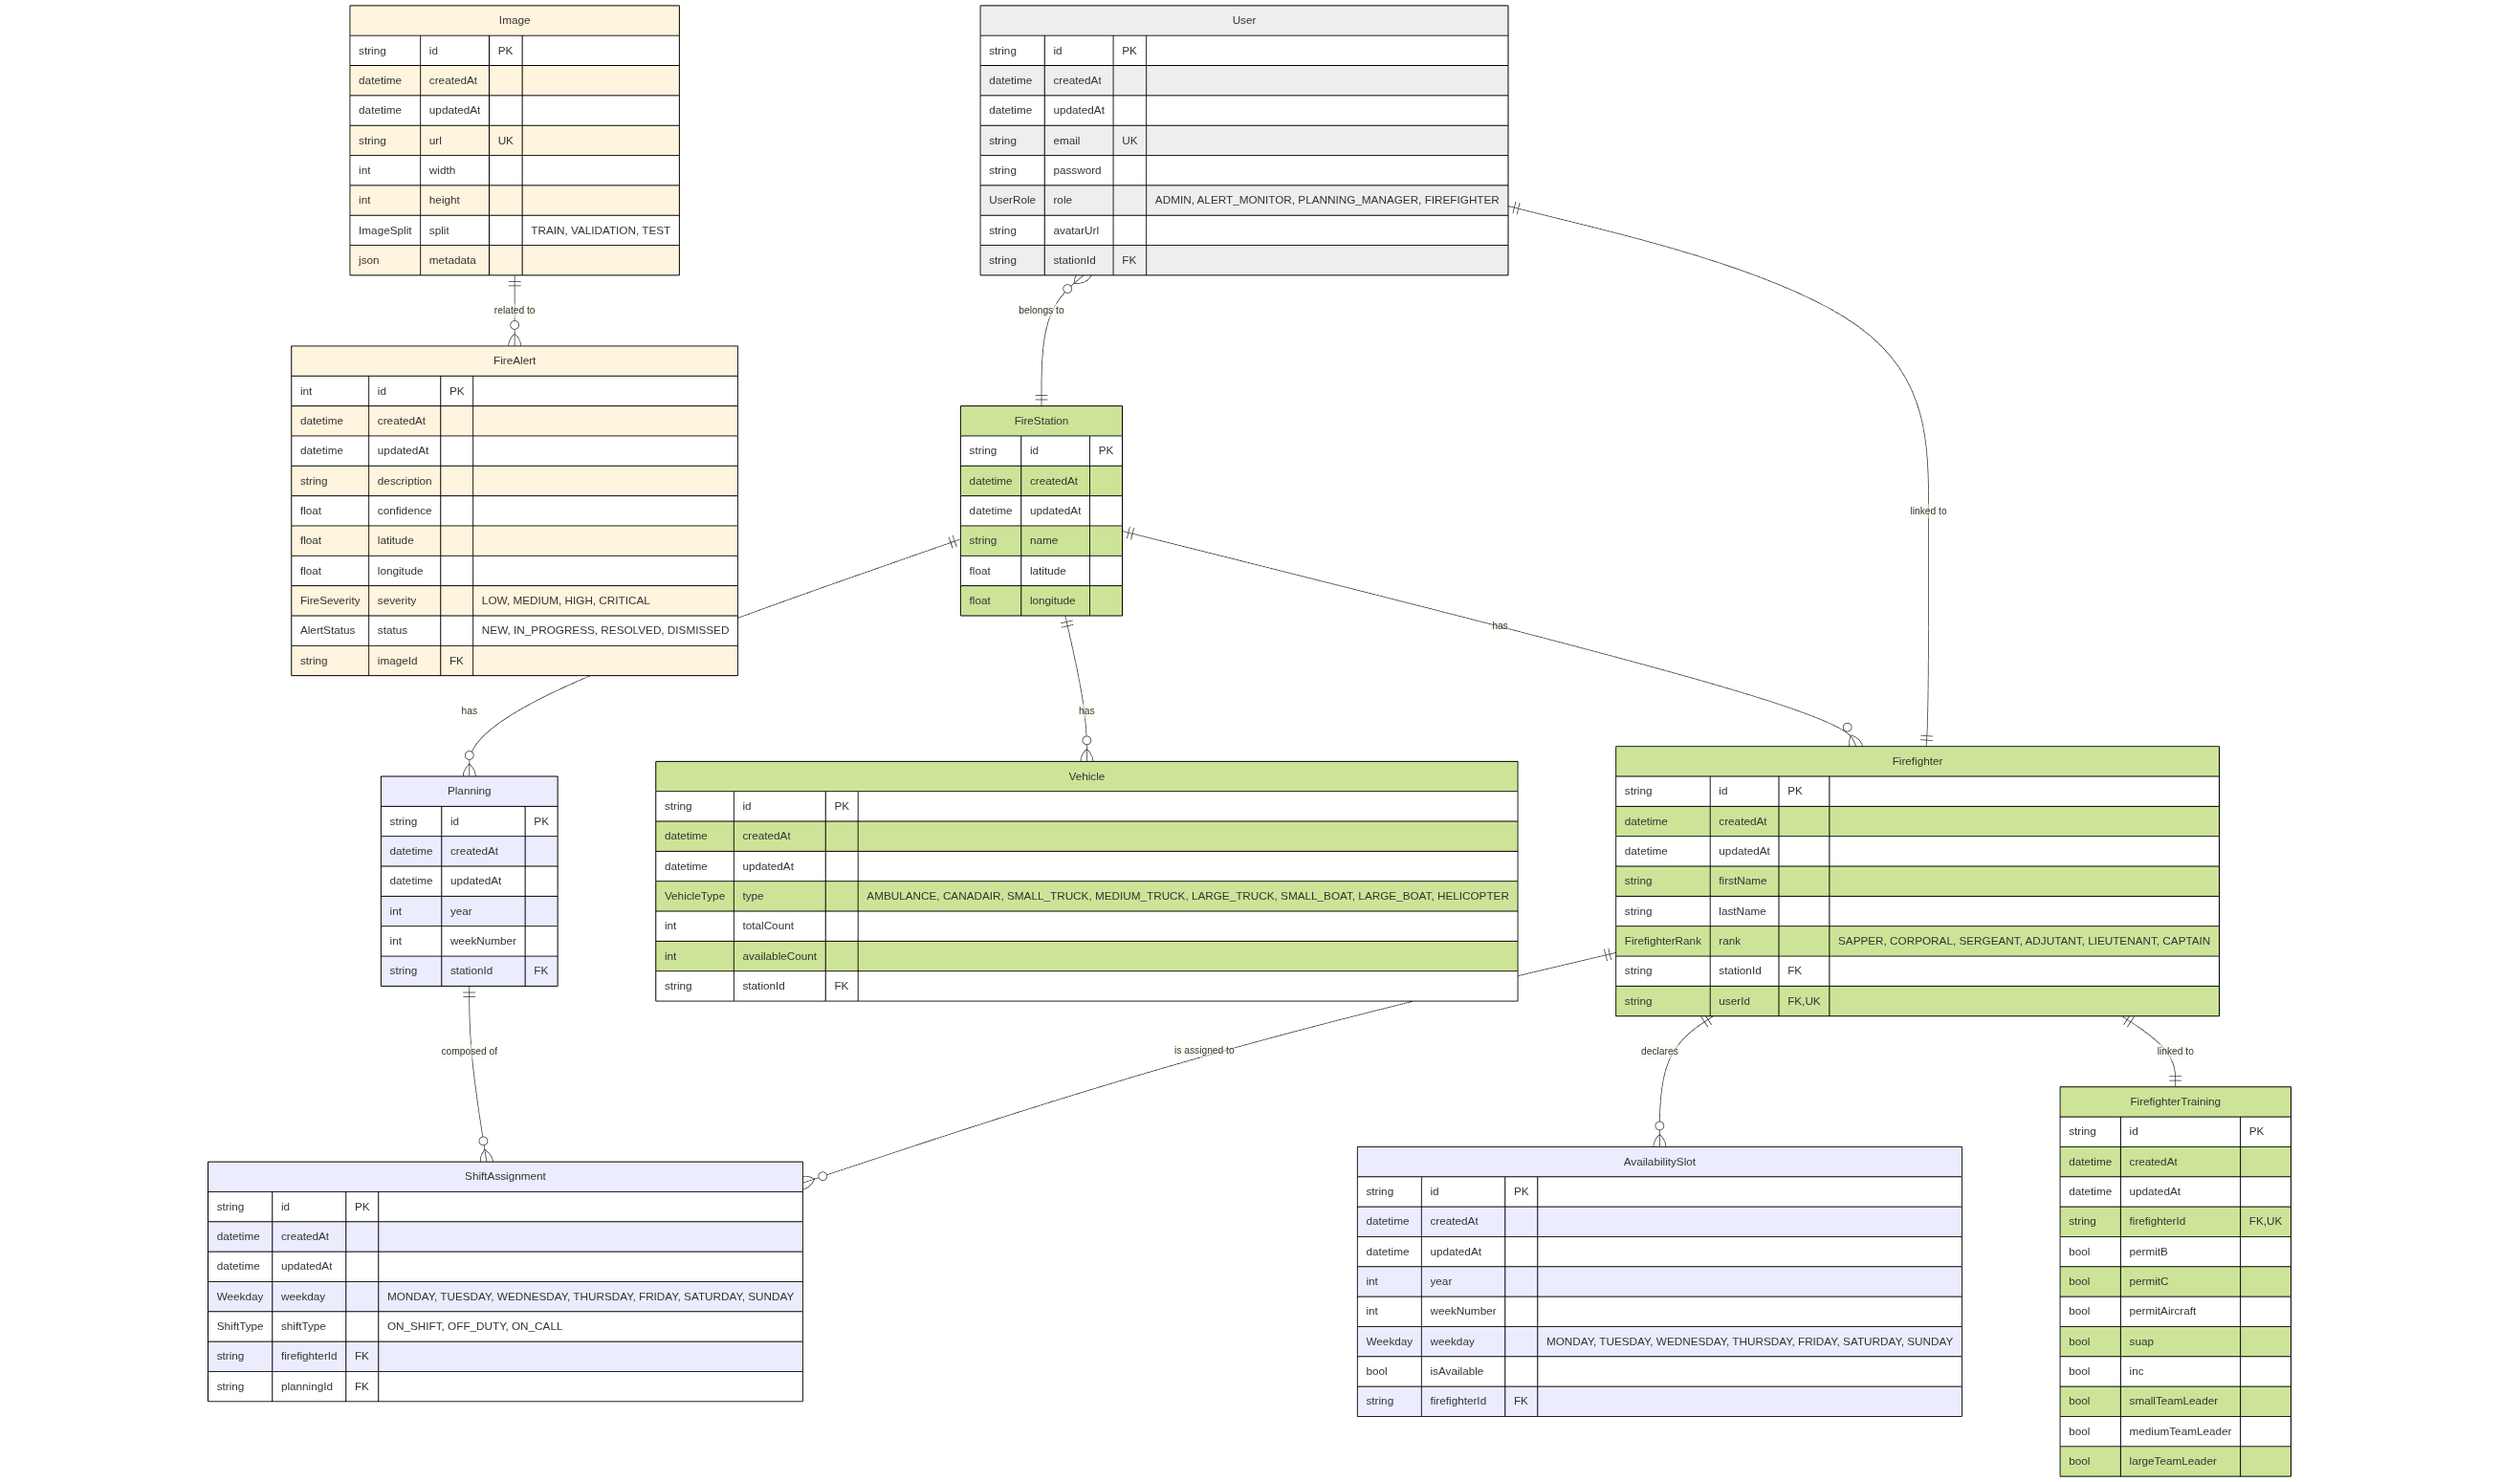
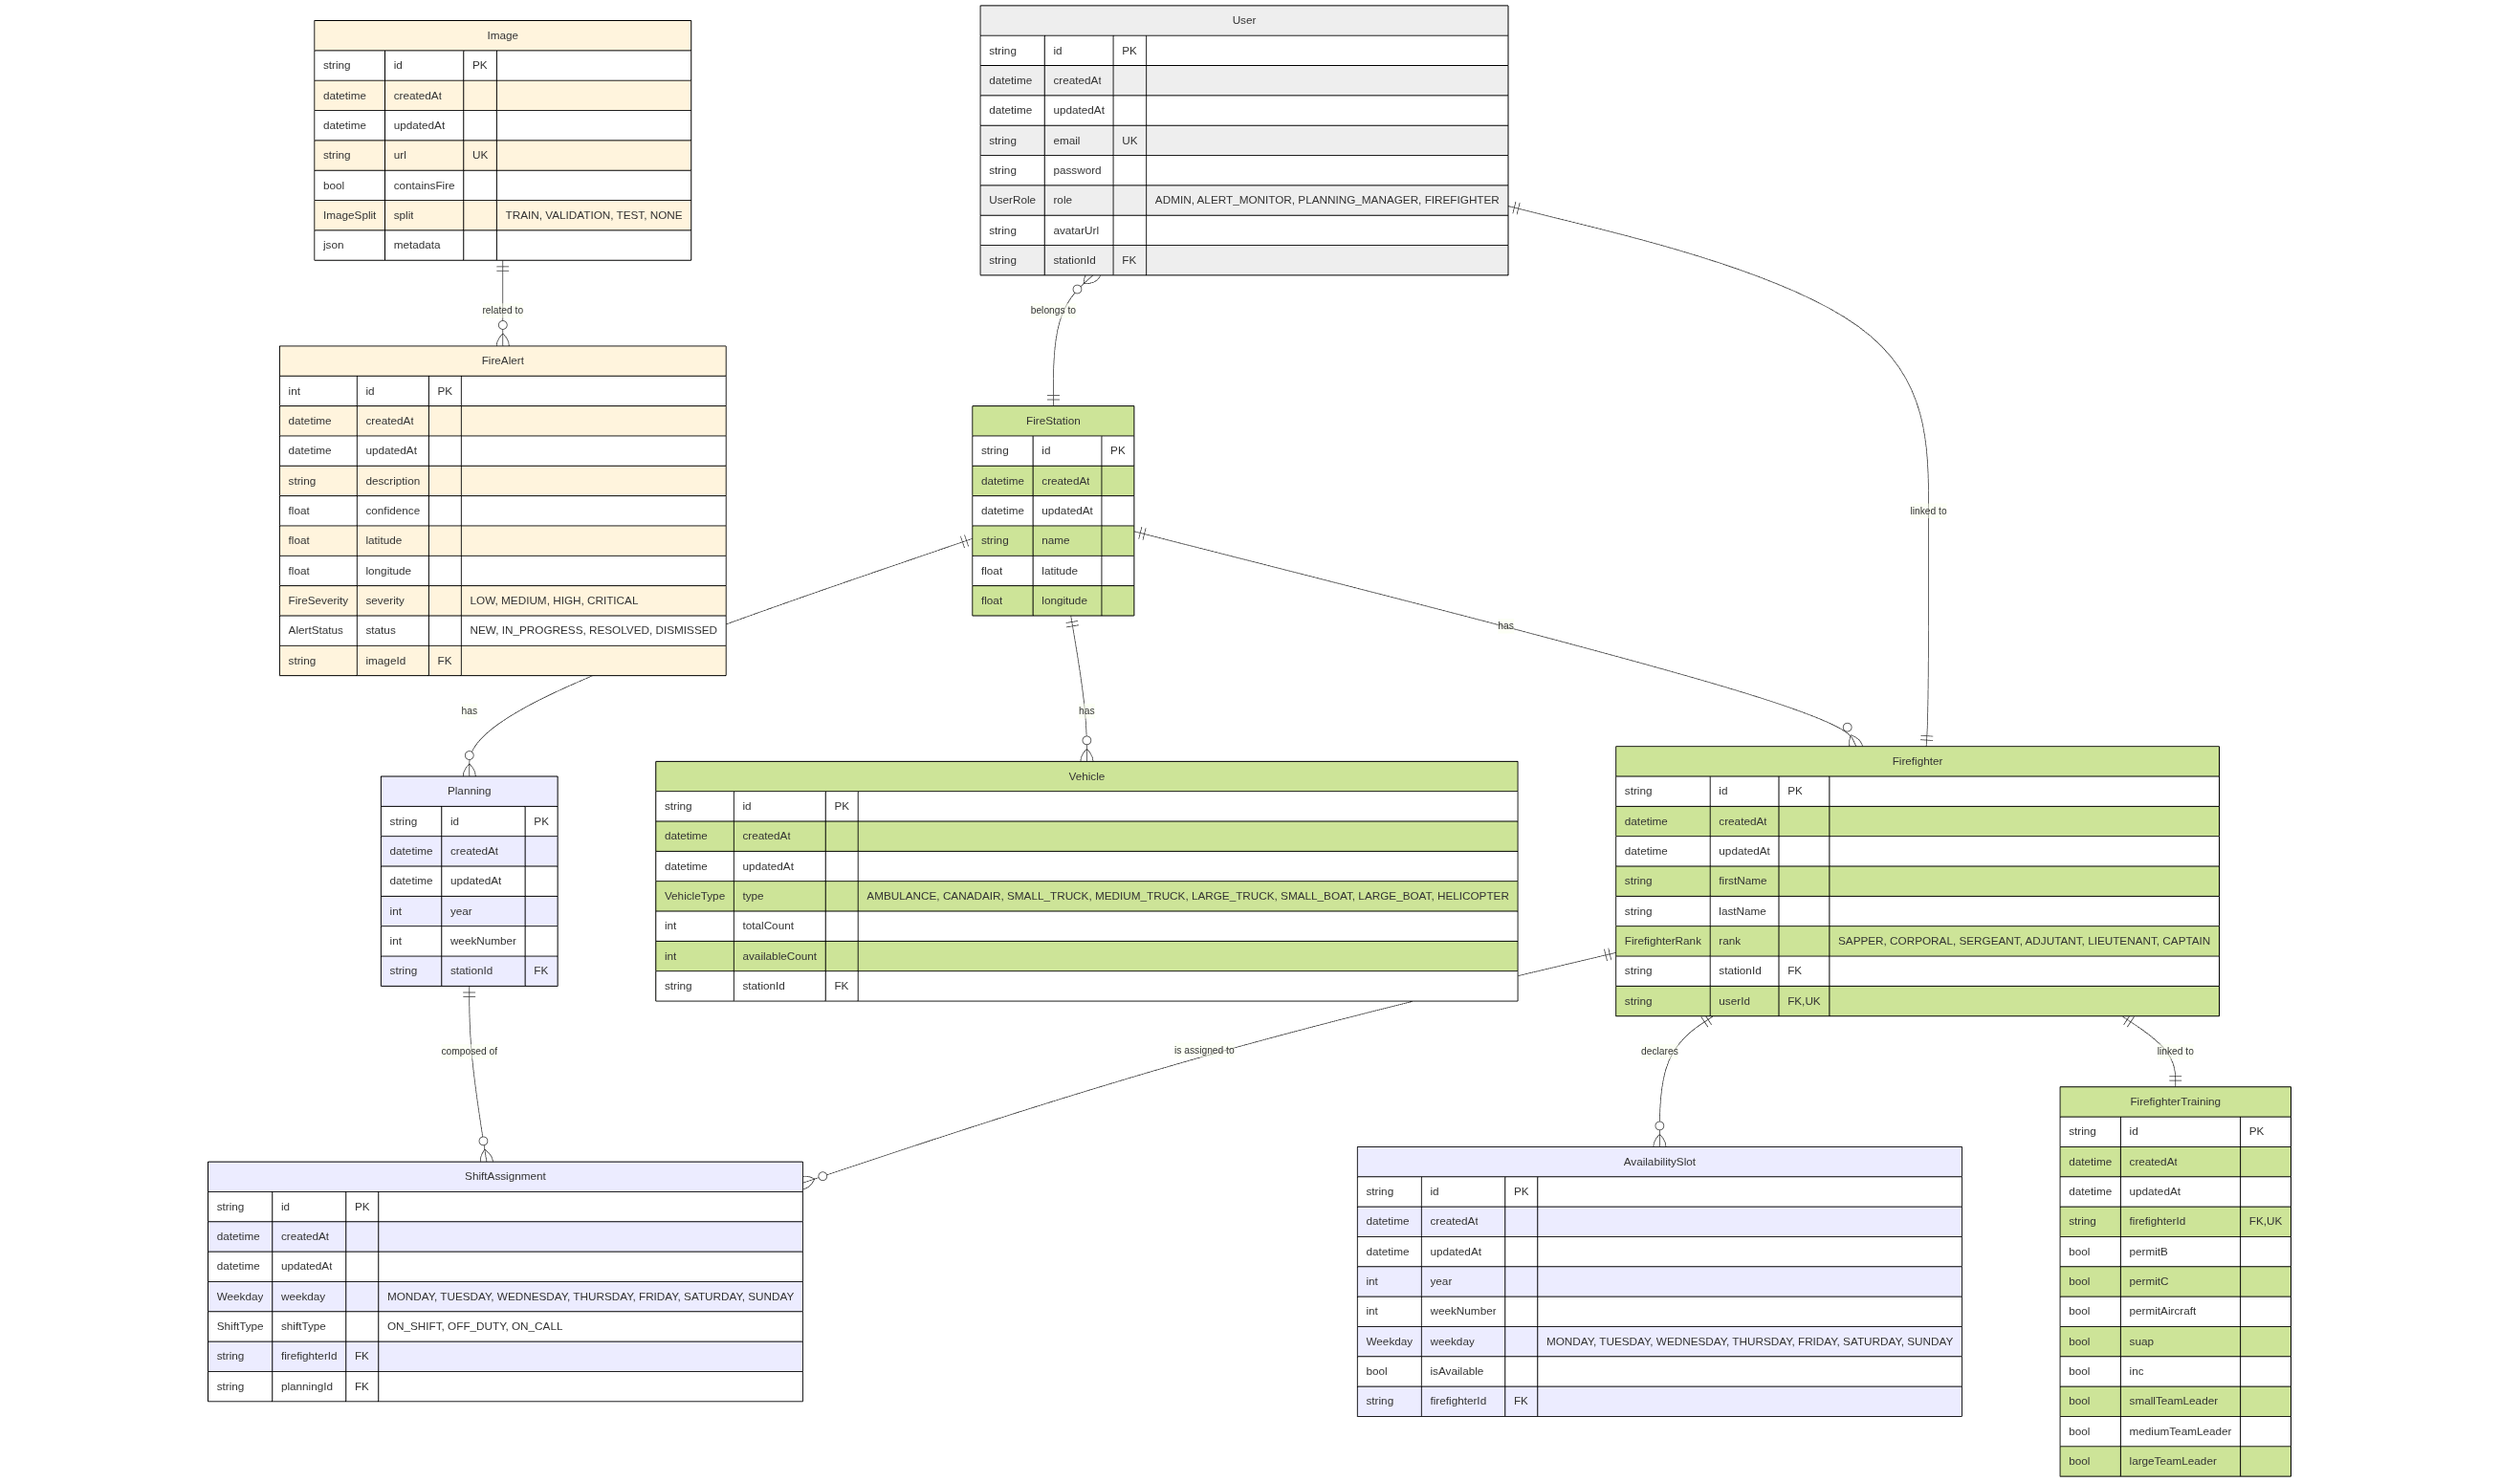
feat: update image schema

diff --git a/src/scripts/seed.ts b/src/scripts/seed.ts
@@ -48,26 +48,41 @@ async function main() {
         console.log('Creating new data...');
         
         const images = await tx.image.createManyAndReturn({
-            data: Array.from({ length: 500 }).map(() => ({
-                url: faker.image.url({ width: 1024, height: 1024 }),
-                width: 1024,
-                height: 1024,
-                split: faker.helpers.weightedArrayElement([
-                    { value: $Enums.ImageSplit.TRAIN, weight: 70 },
-                    { value: $Enums.ImageSplit.VALIDATION, weight: 15 },
-                    { value: $Enums.ImageSplit.TEST, weight: 15 },
-                ]),
-                metadata: {
-                    filename: faker.system.commonFileName('png'),
-                    annotation: Object.values({
-                        classId: faker.number.binary(),
-                        xCenter: faker.number.float({ min: 0, max: 1, fractionDigits: 6 }),
-                        yCenter: faker.number.float({ min: 0, max: 1, fractionDigits: 6 }),
-                        width: faker.number.float({ min: 0, max: 1, fractionDigits: 6 }),
-                        height: faker.number.float({ min: 0, max: 1, fractionDigits: 6 }),
-                    }).join(' ')
-                },
-            })),
+            data: Array.from({ length: 500 }).map(() => {
+                const containsFire = faker.datatype.boolean({ probability: 0.5 });
+                return {
+                    url: faker.image.url({ width: 1024, height: 1024 }),
+                    split: faker.helpers.weightedArrayElement([
+                        { value: $Enums.ImageSplit.TRAIN, weight: 70 },
+                        { value: $Enums.ImageSplit.VALIDATION, weight: 15 },
+                        { value: $Enums.ImageSplit.TEST, weight: 10 },
+                        { value: $Enums.ImageSplit.NONE, weight: 5 },
+                    ]),
+                    containsFire: containsFire,
+                    metadata: {
+                        width: 1024,
+                        height: 1024,
+                        localPath: faker.system.filePath(),
+                        latitude: faker.location.latitude({
+                            min: FRANCE_BOUNDING_BOX.minLat,
+                            max: FRANCE_BOUNDING_BOX.maxLat
+                        }),
+                        longitude: faker.location.longitude({
+                            min: FRANCE_BOUNDING_BOX.minLng,
+                            max: FRANCE_BOUNDING_BOX.maxLng
+                        }),
+                        boundingBoxes: containsFire
+                            ? Array.from({ length: faker.number.int({ min: 1, max: 10 }) })
+                                .map(() => Object.values({
+                                    xCenter: faker.number.float({ min: 0, max: 1, fractionDigits: 6 }),
+                                    yCenter: faker.number.float({ min: 0, max: 1, fractionDigits: 6 }),
+                                    width: faker.number.float({ min: 0, max: 1, fractionDigits: 6 }),
+                                    height: faker.number.float({ min: 0, max: 1, fractionDigits: 6 }),
+                                }).join(' '))
+                            : null
+                    },
+                };
+            }),
             skipDuplicates: true
         });
         
